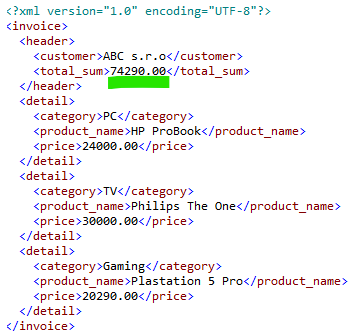
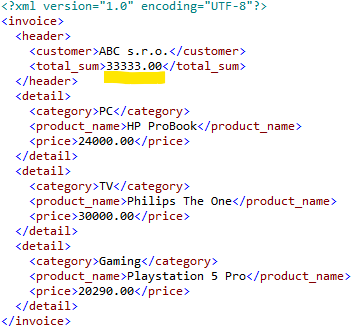
03-Mar-2025 - menu bar changed

Changed region(s): [[0.0, 0.0, 0.9972, 1.0]]

diff --git a/Subpages/XML_parsing_to_txt_outcome.py b/Subpages/XML_parsing_to_txt_outcome.py
@@ -1,6 +1,8 @@
 import streamlit as st
 import xml.etree.ElementTree as ET
 import time
+import plotly.express as px
+import pandas as pd
 
 
 st.write("# Upload XML:")
@@ -66,7 +68,7 @@ if object_from_upload is not None:
     def data_validation(value_total_sum, pri_value_1, pri_value_2, pri_value_3):
         result = value_total_sum - pri_value_1 - pri_value_2 - pri_value_3
         st.write("---------")
-        st.write("# Validation process:")
+        st.write("#### Validation process:")
         
         if result < 0 or result > 0:
             st.warning("Validation not passed - summary does not equeal to line values. You can either continue with existing file or adjust the input file and upload it again.")
@@ -82,9 +84,10 @@ if object_from_upload is not None:
 
     result_obj_outcome = result_validation[0]
 
-    # nejaky tlacitko na praci s tema hodnotama
+    # Buttons to show values
 
-    st.write("# Check your data:")
+    st.write("------")
+    st.write("#### Check your data:")
 
     if st.button("Summary overview"):
         st.write(f"Receiver of the invoice: {value_customer}")
@@ -95,7 +98,45 @@ if object_from_upload is not None:
         st.write(f"Item 2: Product: {produ_value_2}, Category - {c_value_2}, Price: {pri_value_2} Kc.")
         st.write(f"Item 3: Product: {produ_value_3}, Category - {c_value_3}, Price: {pri_value_3} Kc.")
 
+        # Pie chart
+        data = pd.DataFrame({
+        "Product" : [produ_value_1,produ_value_2,produ_value_3],
+        "Price" : [pri_value_1,pri_value_2,pri_value_3]
+        })
+
+
+        fig_pie = px.pie(
+            data, 
+            names = "Product",
+            values = "Price",
+            title = "Pie chart - ratio of the total sum"
+        )
+
+        st.plotly_chart(fig_pie)
+
+        fig_bar = px.bar(
+            data, 
+            x="Product",
+            y="Price",
+            title= "Bar chart   "
+        )
+
+        st.plotly_chart(fig_bar)
+
     # final outcome for print - using server time
+
+    st.write("------")
+    st.write("#### Download of .txt:")
+    st.write('''Here is short summary of the original XML invoice, including result of validation and date.''')
+
+    st.image("Pictures/outcome txt picture.png")
+    st.write(" ")
+    st.image("Pictures/Validation passed picture txt.png")
+    st.write(" ")
+    st.image("Pictures/Validation NOT passed picture txt.png")
+    st.write(" ")
+
+    # backend part
     time_objects = time.localtime()
     year, month, day, hour, minute, second, weekday, yearday, daylight = time_objects  
 
@@ -108,10 +149,12 @@ if object_from_upload is not None:
     final_outcome = (f"{full_date_outcome} - Validation: {result_obj_outcome} --- Receiver: {value_customer}, price to pay {value_total_sum} Kc.")
 
 
-    if st.download_button("Print/Download - Summary overview", data= final_outcome, file_name="Summary.txt"):
+    if st.download_button("Download", data= final_outcome, file_name="Summary.txt"):
         
         file = open("print.txt","w")
 
         file.write(final_outcome)
         file.close()
         st.info("download will start in few seconds")
+
+    st.write("------")

diff --git a/Subpages/testuju.py b/Subpages/testuju.py
@@ -1,106 +1,24 @@
+ # Pie char
+
 import streamlit as st
-import csv
-import xml.etree.ElementTree as ET
-import time
 import pandas as pd
-import lxml
+import plotly.express as px
+
+a = 1
+b = 2
+c = 3
+
+data = pd.DataFrame({
+    "Kategorie" : ["A","B","C"],
+    "Hodnoty" : [a,b,c]
+})
 
 
-xml_data_empty = """<?xml version="1.0" encoding="UTF-8"?>
-<invoice>
-  <header>
-    <customer></customer>
-    <total_sum></total_sum>
-  </header>
-  <detail>
-    <category></category>
-    <product_name></product_name>
-    <price></price>
-  </detail>
-  <detail>
-    <category></category>
-    <product_name></product_name>
-    <price></price>
-  </detail>
-  <detail>
-    <category></category>
-    <product_name></product_name>
-    <price></price>
-  </detail>
-</invoice>
-"""
+fig_pie = px.pie(
+    data, 
+    names = "Kategorie",
+    values = "Hodnoty",
+    title = "Kolacovy graf plotlib"
+)
 
-
-xml_data_in_valid = """<?xml version="1.0" encoding="UTF-8"?>
-<invoice>
-  <header>
-    <customer>ABC s.r.o</customer>
-    <total_sum>54290.00</total_sum>
-  </header>
-  <detail>
-    <category>PC</category>
-    <product_name>HP ProBook</product_name>
-    <price>24000.00</price>
-  </detail>
-  <detail>
-    <category>TV</category>
-    <product_name>Philips The One</product_name>
-    <price>30000.00</price>
-  </detail>
-  <detail>
-    <category>Gaming</category>
-    <product_name>Plastation 5 Pro</product_name>
-    <price>20290.00</price>
-  </detail>
-</invoice>
-"""
-
-xml_data_in_NOT_valid = """<?xml version="1.0" encoding="UTF-8"?>
-<invoice>
-  <header>
-    <customer>ABC s.r.o</customer>
-    <total_sum>33333.00</total_sum>
-  </header>
-  <detail>
-    <category>PC</category>
-    <product_name>HP ProBook</product_name>
-    <price>24000.00</price>
-  </detail>
-  <detail>
-    <category>TV</category>
-    <product_name>Philips The One</product_name>
-    <price>30000.00</price>
-  </detail>
-  <detail>
-    <category>Gaming</category>
-    <product_name>Plastation 5 Pro</product_name>
-    <price>20290.00</price>
-  </detail>
-</invoice>
-"""
-
-# Frontend part
-
-st.write("------")
-
-st.write("# 1) Predefined file - sum matches")
-st.image("Pictures/XML 2.png")
-
-if st.download_button("Download",data = xml_data_in_valid  , file_name="XML_sum matching.xml"):
-    st.info("Download will happen in few seconds")
-
-st.write("------")
-
-st.write("# 2) Predefined file - sum does not match")
-st.image("Pictures/XML 3.png")
-if st.download_button("Download",data = xml_data_in_NOT_valid  , file_name="XML_sum not matchining.xml"):
-    st.info("Download will happen in few seconds")
-
-st.write("------")
-
-st.write("# 3) XML template with no values")
-st.image("Pictures/XML 1.png")
-if st.download_button("Download",data = xml_data_empty , file_name="XML_empty_template.xml"):
-    st.info("Download will happen in few seconds")
-
-st.write("------")
+st.plotly_chart(fig_pie)

diff --git a/Subpages/XML_dowload.py b/Subpages/XML_dowload.py
@@ -30,8 +30,8 @@ xml_data_empty = """<?xml version="1.0" encoding="UTF-8"?>
 xml_data_summatch = """<?xml version="1.0" encoding="UTF-8"?>
 <invoice>
   <header>
-    <customer>ABC s.r.o</customer>
-    <total_sum>54290.00</total_sum>
+    <customer>ABC s.r.o.</customer>
+    <total_sum>74290.00</total_sum>
   </header>
   <detail>
     <category>PC</category>
@@ -45,7 +45,7 @@ xml_data_summatch = """<?xml version="1.0" encoding="UTF-8"?>
   </detail>
   <detail>
     <category>Gaming</category>
-    <product_name>Plastation 5 Pro</product_name>
+    <product_name>Playstation 5 Pro</product_name>
     <price>20290.00</price>
   </detail>
 </invoice>
@@ -54,7 +54,7 @@ xml_data_summatch = """<?xml version="1.0" encoding="UTF-8"?>
 xml_data_sumnotmatch = """<?xml version="1.0" encoding="UTF-8"?>
 <invoice>
   <header>
-    <customer>ABC s.r.o</customer>
+    <customer>ABC s.r.o.</customer>
     <total_sum>33333.00</total_sum>
   </header>
   <detail>
@@ -69,7 +69,7 @@ xml_data_sumnotmatch = """<?xml version="1.0" encoding="UTF-8"?>
   </detail>
   <detail>
     <category>Gaming</category>
-    <product_name>Plastation 5 Pro</product_name>
+    <product_name>Playstation 5 Pro</product_name>
     <price>20290.00</price>
   </detail>
 </invoice>
@@ -94,7 +94,7 @@ st.write(
 Simple scenario where <total_sum> field matches the sum of <price> in detail elements.
 '''
 )
-st.image("Pictures/XML 2.png")
+st.image("Pictures/XML 1.png")
 
 if st.download_button("Download",data = xml_data_summatch  , file_name="XML_sum matching.xml"):
     st.info("Download will happen in few seconds")
@@ -106,10 +106,10 @@ st.write("------")
 st.write("#### 2) Predefined file - sum does not match")
 st.write(
     '''
-Scenario where <total_sum> field does not matches the sum of <price> in detail elements. Which will be seen in the parsing data step where there is validation of values built.
+Scenario where <total_sum> field does not matches the sum of <price> in detail elements. This will be seen in the parsing data step - validation is built.
 '''
 )
-st.image("Pictures/XML 3.png")
+st.image("Pictures/XML 2.png")
 if st.download_button("Download",data = xml_data_sumnotmatch  , file_name="XML_sum not matchining.xml"):
     st.info("Download will happen in few seconds")
 
@@ -122,7 +122,7 @@ st.write(
 There can be data filled into templete. Just XML structure to be downloaded.
 '''
 )
-st.image("Pictures/XML 1.png")
+st.image("Pictures/XML 3.png")
 if st.download_button("Download",data = xml_data_empty , file_name="XML_empty_template.xml"):
     st.info("Download will happen in few seconds")
 

diff --git a/streamlit_app.py b/streamlit_app.py
@@ -1,16 +1,35 @@
 import streamlit as st
 
 
-pages = {
-    "Content": [
-        st.Page("Subpages/welcome.py", title="Welcome"),
-        st.Page("Subpages/XML_dowload.py", title="XML download"),
-        st.Page("Subpages/XML_parsing_to_txt_outcome.py", title="XML parsing"),
-        st.Page("Subpages/testuju.py", title="TESTUJU")
-    ]
-}
+# pages = {
+#     "XML Parsing": [
+#         #st.Page("Subpages/welcome.py", title="Welcome"),
+#         st.Page("Subpages/XML_dowload.py", title="XML download"),
+#         st.Page("Subpages/XML_parsing_to_txt_outcome.py", title="XML parsing"),
+#         #st.Page("Subpages/testuju.py", title="TESTUJU")
+#     ]
+# }
 
-pg = st.navigation(pages)
+# pg = st.navigation(pages)
+# pg.run()
+
+# --- SHARED ON ALL PAGES ---
+st.logo("Pictures/Logo2.png", size='large')
+
+testuju = st.Page("Subpages/testuju.py", title="TESTUJU")
+app_description = st.Page("Subpages/application_description.py", title="Application Description")
+download = st.Page("Subpages/XML_dowload.py", title="Download")
+parsing = st.Page("Subpages/XML_parsing_to_txt_outcome.py", title="XML parsing")
+
+pg = st.navigation(
+    {
+        "Welcome": [app_description],
+        #"Testuju": [testuju],
+        "Parsing": [parsing,download]
+    }
+)
 pg.run()
+
+
 
 
